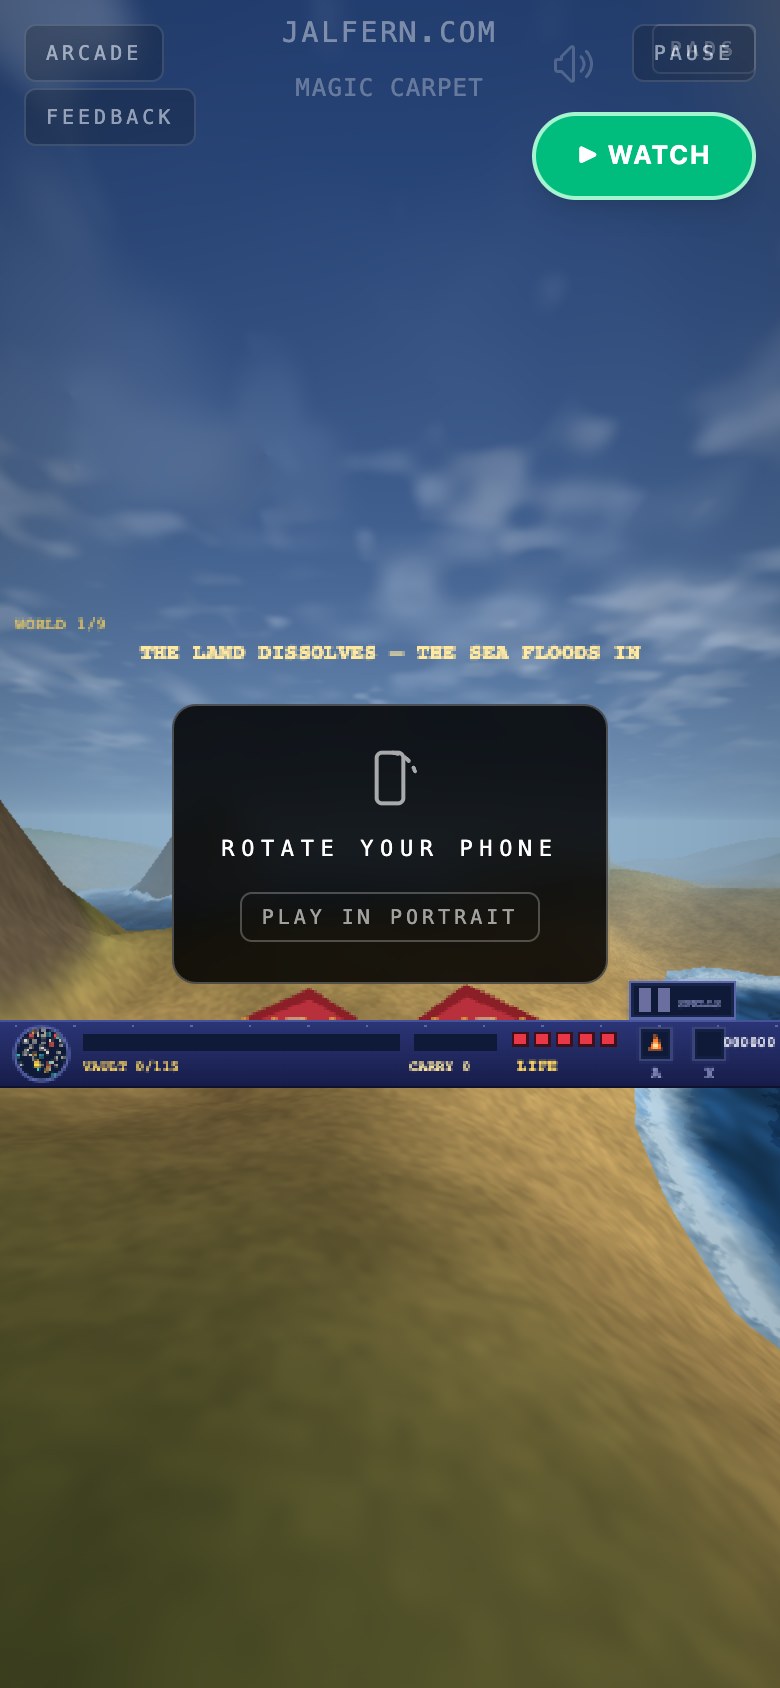
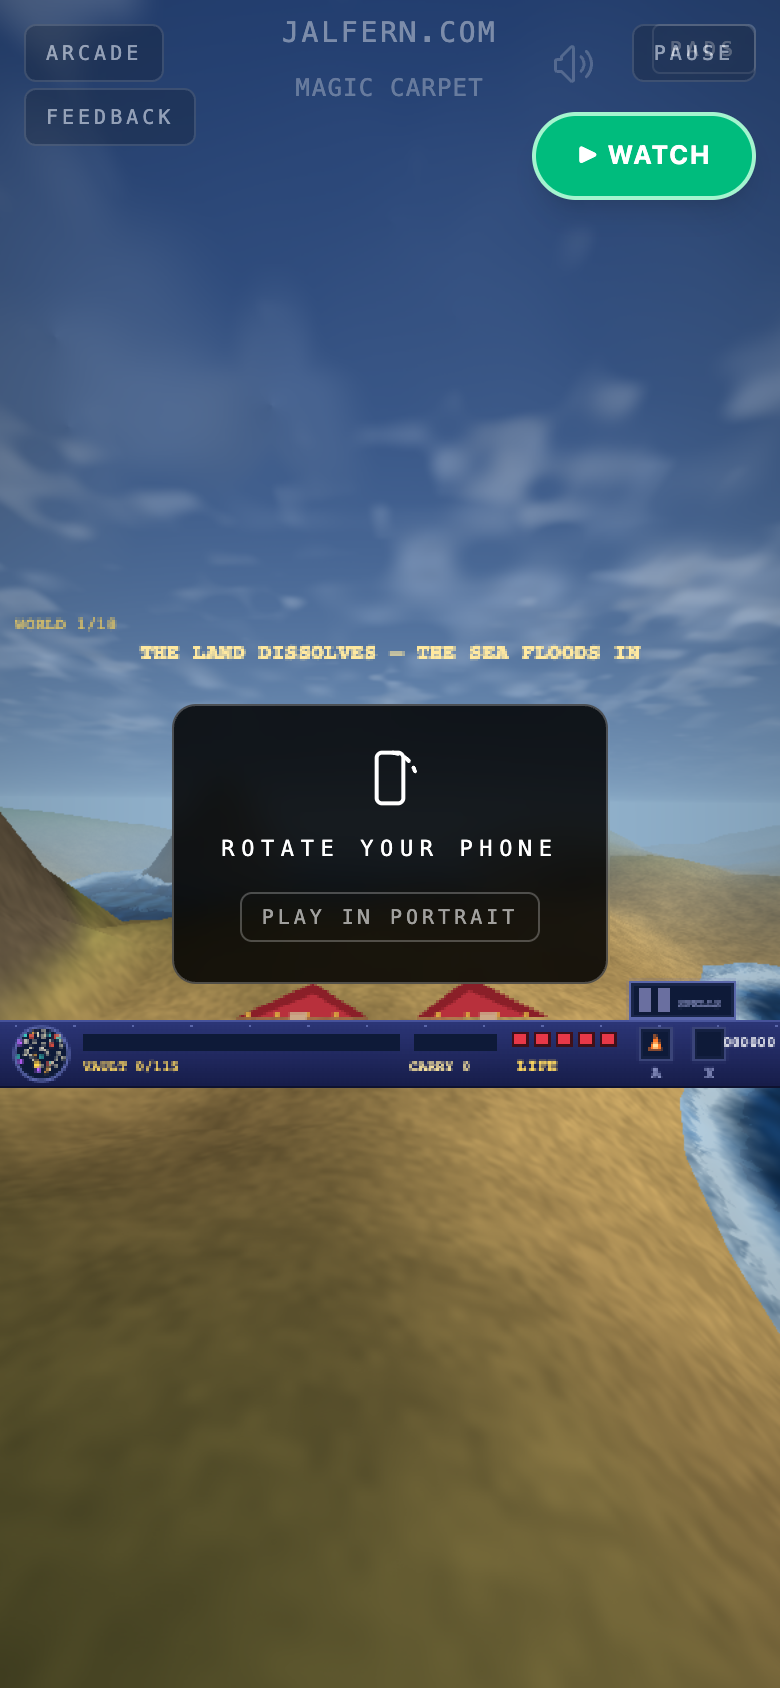
MAGIC CARPET: eighteen worlds — the campaign grows to six arcs of three (#1925 item 3)
LEVELS gains nine named worlds (EMERALD REACH -> THE ENDLESS SKY),
continuing the +15 vault ramp (quotas 280-400, hoards 230-350, wizHp
200-320, pearls 96-128) and the original's three-atmosphere cycle.
Quota policy holds: every new quota sits under the realistic pearl
yield and over the worst-case supply floor by >=1.5x. Worlds 1-9 are
untouched, the seed stream never shifts. WORLD SELECT, HUD and win
check follow LEVELS.length for free. carpetcheck's nine-world family
retargeted to eighteen; 60-seed sweep restores all 18 on all 60 seeds.
DEV PROGNOSIS tick cap now rides the campaign length.

diff --git a/src/config/games.js b/src/config/games.js
@@ -1062,8 +1062,8 @@ export const GAMES = [
         component: MagicCarpetGame,
         label: 'MAGIC CARPET',
         theme: 'dark',
-        description: "Bullfrog's 1994 DOS god-game, rebuilt whole in code — reworked (#1041) much closer to the original. You fly a magic carpet in first person over seeded, big rolling landscapes and sea — water to snow, drawn the original's way: per-column voxel terrain at 320x200 with checker dither and haze, sprite entities clipped by the hills, a gradient dusk sky. The mana loop is the original's: pearls trail after your carpet like a comet's tail, but they count only once flown HOME — hover over your castle and the vault fills; die over the wilds and the whole load is lost. Fill the vault to the quota and the world is restored; nine worlds await in three arcs of three atmospheres (Verdant Isles first, The Last Sky last) with rising quotas and nastier wizards, and your spells carry over. The 20-spell book is reduced to twelve signatures with the original's acquisition risk: fly through a grimoire and it may simply elude you. Left and right hands cast from your carried pouch — fireball homes like it means it, lightning chains, telekinesis lifts a wolf and hurls it back, SHATTER kills every creature at your look point and leaves the earth unmarked (no crater, no cinder), and INVISIBILITY veils the carpet for seven seconds: the wizard's bolts refuse to launch, arrows already in flight pass through you, and wolves and giants lose you entirely — while your own pearls, books and blasts work untouched. And spells reshape the land: blasts crater the terrain itself, low craters flood with the sea, RAISE pushes a hill up out of the plain — the counter-spell that drains a flooded crater and builds ridges for the carpet to ride — and villages catch fire and their scorch breeds wolves. A rival wizard orbits his tower hoarding 80+ mana per world and hexes you with bolts; giants sling rocks, wolves hunt — but they only reach a carpet flying low, so altitude is armor. The carpet banks into turns and rises over ridges on its own — it cannot crash; dying while the vault holds returns you to its gates, dying with an empty vault unravels the flight. The attract demo is the autopilot's own proven flight, and a Node harness (carpetcheck) audits delivery-banking, death-spills, terrain deformation, burning villages, mana conservation across worlds, and equilibrium itself.",
-        controls: ['← →: turn the carpet (it banks and slows in the turn, then accelerates out)', '▲ ▼: climb and descend — the carpet auto-rises over ridges, it cannot crash; wolves only reach you when you fly low', 'SHIFT (hold) / hold ▲: charge-glide — 1.6× speed with wider turns, costs no mana', 'SPACE / A: cast your LEFT hand · X / Z / B: cast your RIGHT hand — spells spend the mana you CARRY', 'Fly through floating grimoires to learn spells — some elude you; try again', '1–9, 0 and -, =: put a learned spell in your left hand · Q: cycle your right hand', 'B at your castle opens the SPELL BOOK — browse all twelve (unlearned read ???), ◀ ▶ or the digits page, L / R arm the hands; the world holds still while it is open. On touch: tap the glowing prompt at the castle', 'On touch: tap a hand slot to cycle that hand · tap the gold SPELLS tab to open the spellbook and tap a learned spell into your left hand', 'Pearls chase your carpet — gather a load, then fly it home: hover over the castle to fill the vault (the score); die and the pouch spills', 'Fireballs and lightning crater the land; RAISE (cost 25) lifts the ground back up — drained flood, ridged plain; burning villages breed wolves; craters sunk below sea level flood', 'SHATTER (cost 30): every creature within range of your look point dies where it stands — the land untouched', 'INVISIBILITY (cost 20): the wizard, wolves and giants cannot see you — but pearls and grimoires still can', 'CLONE (cost 35): every creature at your look point gains a twin across the mirror — doubled bounty, doubled danger; the wizard is never cloned', 'Kill the rival wizard and his hoard scatters into pearls · bank the quota in all nine worlds to win · on the title screen ◀ ▶ (or tap the gold arrows) pick which world you start in', WATCH_HELP + ' — the autopilot carpetcheck wins all nine worlds with, 60 seeds deep', 'V (or open with ?stereo=1): red/cyan anaglyph — the original\'s stereo-glasses mode; wear the glasses, the HUD stays flat', '?: pause and read the spellbook'],
+        description: "Bullfrog's 1994 DOS god-game, rebuilt whole in code — reworked (#1041) much closer to the original. You fly a magic carpet in first person over seeded, big rolling landscapes and sea — water to snow, drawn the original's way: per-column voxel terrain at 320x200 with checker dither and haze, sprite entities clipped by the hills, a gradient dusk sky. The mana loop is the original's: pearls trail after your carpet like a comet's tail, but they count only once flown HOME — hover over your castle and the vault fills; die over the wilds and the whole load is lost. Fill the vault to the quota and the world is restored; eighteen worlds await in six arcs of three atmospheres (Verdant Isles first, The Endless Sky last) with rising quotas and nastier wizards, and your spells carry over. The 20-spell book is reduced to twelve signatures with the original's acquisition risk: fly through a grimoire and it may simply elude you. Left and right hands cast from your carried pouch — fireball homes like it means it, lightning chains, telekinesis lifts a wolf and hurls it back, SHATTER kills every creature at your look point and leaves the earth unmarked (no crater, no cinder), and INVISIBILITY veils the carpet for seven seconds: the wizard's bolts refuse to launch, arrows already in flight pass through you, and wolves and giants lose you entirely — while your own pearls, books and blasts work untouched. And spells reshape the land: blasts crater the terrain itself, low craters flood with the sea, RAISE pushes a hill up out of the plain — the counter-spell that drains a flooded crater and builds ridges for the carpet to ride — and villages catch fire and their scorch breeds wolves. A rival wizard orbits his tower hoarding 80+ mana per world and hexes you with bolts; giants sling rocks, wolves hunt — but they only reach a carpet flying low, so altitude is armor. The carpet banks into turns and rises over ridges on its own — it cannot crash; dying while the vault holds returns you to its gates, dying with an empty vault unravels the flight. The attract demo is the autopilot's own proven flight, and a Node harness (carpetcheck) audits delivery-banking, death-spills, terrain deformation, burning villages, mana conservation across worlds, and equilibrium itself.",
+        controls: ['← →: turn the carpet (it banks and slows in the turn, then accelerates out)', '▲ ▼: climb and descend — the carpet auto-rises over ridges, it cannot crash; wolves only reach you when you fly low', 'SHIFT (hold) / hold ▲: charge-glide — 1.6× speed with wider turns, costs no mana', 'SPACE / A: cast your LEFT hand · X / Z / B: cast your RIGHT hand — spells spend the mana you CARRY', 'Fly through floating grimoires to learn spells — some elude you; try again', '1–9, 0 and -, =: put a learned spell in your left hand · Q: cycle your right hand', 'B at your castle opens the SPELL BOOK — browse all twelve (unlearned read ???), ◀ ▶ or the digits page, L / R arm the hands; the world holds still while it is open. On touch: tap the glowing prompt at the castle', 'On touch: tap a hand slot to cycle that hand · tap the gold SPELLS tab to open the spellbook and tap a learned spell into your left hand', 'Pearls chase your carpet — gather a load, then fly it home: hover over the castle to fill the vault (the score); die and the pouch spills', 'Fireballs and lightning crater the land; RAISE (cost 25) lifts the ground back up — drained flood, ridged plain; burning villages breed wolves; craters sunk below sea level flood', 'SHATTER (cost 30): every creature within range of your look point dies where it stands — the land untouched', 'INVISIBILITY (cost 20): the wizard, wolves and giants cannot see you — but pearls and grimoires still can', 'CLONE (cost 35): every creature at your look point gains a twin across the mirror — doubled bounty, doubled danger; the wizard is never cloned', 'Kill the rival wizard and his hoard scatters into pearls · bank the quota in all eighteen worlds to win · on the title screen ◀ ▶ (or tap the gold arrows) pick which world you start in', WATCH_HELP + ' — the autopilot carpetcheck wins all eighteen worlds with, 60 seeds deep', 'V (or open with ?stereo=1): red/cyan anaglyph — the original\'s stereo-glasses mode; wear the glasses, the HUD stays flat', '?: pause and read the spellbook'],
     },
     {
         path: '/garden-guard',

diff --git a/src/games/MagicCarpet/sim.js b/src/games/MagicCarpet/sim.js
@@ -18,8 +18,10 @@ export const CFG = {
 
 // #1740: the original ran a long campaign of 45 levels; the atmospheres repeat
 // every third world (the renderer cycles its three PALs the same way), so the
-// nine named worlds below are three arcs of three — each arc stricter than the
-// last. Quota policy (learned in the sweep: seeds 41/54 stalled when world 9's
+// named worlds below are six arcs of three — each arc stricter than the last
+// (#1925 item 3 grew the campaign from nine to eighteen: arcs four to six keep
+// the same three-atmosphere cycle and the +15 vault ramp).
+// Quota policy (learned in the sweep: seeds 41/54 stalled when world 9's
 // demand outran the pearl yield): every quota stays well under what the pearls
 // alone realistically pay (~pearls x 3.5 against the 2..6 roll), because the
 // wizard hoard is NOT reliably cashable — casting needs prepaid mana, and an
@@ -34,6 +36,18 @@ export const LEVELS = [
     { name: 'LIVING MOOR', quota: 235, hoard: 185, wizHp: 155, pearls: 84 },
     { name: 'LAST EMBER', quota: 250, hoard: 200, wizHp: 170, pearls: 88 },
     { name: 'THE LAST SKY', quota: 265, hoard: 215, wizHp: 185, pearls: 92 },
+    // #1925 item 3 — the second campaign. Arc four (green/ember/frost as above):
+    { name: 'EMERALD REACH', quota: 280, hoard: 230, wizHp: 200, pearls: 96 },
+    { name: 'CINDER VALE', quota: 295, hoard: 245, wizHp: 215, pearls: 100 },
+    { name: 'RIMEFALL', quota: 310, hoard: 260, wizHp: 230, pearls: 104 },
+    // arc five — stricter still:
+    { name: 'THORNWOOD', quota: 325, hoard: 275, wizHp: 245, pearls: 108 },
+    { name: 'ASHEN HOUR', quota: 340, hoard: 290, wizHp: 260, pearls: 112 },
+    { name: 'WHITE HOLLOW', quota: 355, hoard: 305, wizHp: 275, pearls: 116 },
+    // arc six — the deep country, the original's long middle:
+    { name: 'SABLE WILD', quota: 370, hoard: 320, wizHp: 290, pearls: 120 },
+    { name: 'LAST LIGHT', quota: 385, hoard: 335, wizHp: 305, pearls: 124 },
+    { name: 'THE ENDLESS SKY', quota: 400, hoard: 350, wizHp: 320, pearls: 128 },
 ]
 export const QUOTA = LEVELS[LEVELS.length - 1].quota
 
@@ -41,7 +55,7 @@ export const QUOTA = LEVELS[LEVELS.length - 1].quota
 // Pure selector plumbing so the whole pick path is Node-provable, like hudTap.
 // Thumb-sized chevron zones sit at the bottom corners of the 320x200 title
 // surface (48x48 HUD px = >=44 CSS px on a 390px phone); the cursor cycles
-// through the nine worlds and any other start key/tap launches from it.
+// through the eighteen worlds and any other start key/tap launches from it.
 export const SEL = { y: 112, h: 48, zw: 48 }
 export function selectTap(x, y) {
     if (y < SEL.y || y > SEL.y + SEL.h) return null

diff --git a/src/games/MagicCarpet/index.jsx b/src/games/MagicCarpet/index.jsx
@@ -1460,8 +1460,10 @@ const MagicCarpetGame = () => {
                             if (gs.end) return `already ${gs.end}`
                             const clone = JSON.parse(JSON.stringify(gs))
                             clone.events = []
+                            // #1925: the cap rides the campaign — a full 18-world win runs
+                            // ~12k ticks/world, so a fixed 60k would call world 1 unwinnable.
                             let t = 0
-                            while (!clone.end && t < 60000) { step(clone, autopilot(clone)); t++ }
+                            while (!clone.end && t < LEVELS.length * 12000) { step(clone, autopilot(clone)); t++ }
                             return clone.end === 'win'
                                 ? `WINNABLE from here: vault quota banked at tick ${clone.tick} (${clone.score} pts)`
                                 : `NOT winnable by the autopilot from here: end=${clone.end || 'timeout'} vault ${Math.floor(clone.bank)}/${clone.quota}`
@@ -1543,7 +1545,7 @@ const MagicCarpetGame = () => {
             {screen === 'attract' && (
                 <div className="absolute inset-x-0 top-4 text-center pointer-events-none">
                     <h1 className="text-4xl font-black" style={{ color: '#e8c860', textShadow: '0 0 18px #6a4ad0, 3px 3px 0 #3a1a5a' }}>MAGIC CARPET</h1>
-                    <p className="text-purple-200/90 font-mono mt-1 text-sm">fly . gather mana . fly it home . restore nine worlds</p>
+                    <p className="text-purple-200/90 font-mono mt-1 text-sm">fly . gather mana . fly it home . restore eighteen worlds</p>
                     <p className="text-white font-mono font-bold mt-2 animate-pulse">TAP / PRESS ANY KEY TO START</p>
                     <AttractMessage
                         className="text-purple-100/80 font-mono text-[11px] mt-2 px-8 leading-4"
@@ -1556,7 +1558,7 @@ const MagicCarpetGame = () => {
                             'DIE AND THE LOAD IS LOST',
                             'FIREBALLS CRATER THE LAND · BURNING VILLAGES BREED WOLVES',
                             'CAST INVISIBILITY AND WIZARD AND WOLVES LOOK RIGHT THROUGH YOU',
-                            'NINE WORLDS · THREE ARCS OF THREE ATMOSPHERES · EACH GUARDED',
+                            'EIGHTEEN WORLDS · SIX ARCS OF THREE ATMOSPHERES · EACH GUARDED',
                         ]}
                     />
                     <span className="block mt-2 text-purple-200/70 font-mono font-bold tracking-wider">{WATCH_ATTRACT_HINT}</span>

diff --git a/src/games/MagicCarpet/renderer.js b/src/games/MagicCarpet/renderer.js
@@ -1316,7 +1316,7 @@ void main(){
     }
     let gs0 = null
 
-    // #1740: nine worlds over three atmospheres — cycle like the original's
+    // #1740/#1925: eighteen worlds over three atmospheres — cycle like the original's
     // repeating campaign instead of clamping the ninth world to Frostbound.
     const applyPalette = (level) => {
         const p = PAL[level % PAL.length]

diff --git a/src/games/MagicCarpet/README.md b/src/games/MagicCarpet/README.md
@@ -10,7 +10,7 @@ view with a MODERN GPU pass (`renderer.js`, WebGL2) while the HUD stays a crisp
 
 - `sim.js` — the pure deterministic machine: seeded heightmap (value-noise fbm +
   three cones over a 512u wrapping map) that spells DEFORM (craters, flooding),
-  nine worlds (`LEVELS`: quota, wizard hoard/HP, pearl count), carpet, monsters,
+  eighteen worlds (`LEVELS`: quota, wizard hoard/HP, pearl count), carpet, monsters,
   wizard, spells, vault economy, `autopilot()` (drives the attract demo AND the
   harness), `stateHash()`. No browser APIs in here — the harness imports it directly.
 - `art.js` — rect-composed pixel sprites (wizard, tower, castle stages, giant,
@@ -46,19 +46,19 @@ view with a MODERN GPU pass (`renderer.js`, WebGL2) while the HUD stays a crisp
 - Death spills the pouch (`spilled`), the vault endures: with vault > 0 you
   respawn at the gates (high, shielded, 240-tick spawn-invulnerable); with an
   empty vault the flight ends.
-- Nine worlds (`LEVELS`, quotas 115→265 in nine strict steps, #1740): banking the
-  quota regenerates the whole world (terrain, pearls, huts, village, monsters, fresh wizard
-  hoard); spells learned and the carried pouch transfer; clearing world 9 wins.
+- Eighteen worlds (`LEVELS`, quotas 115→400 in eighteen strict steps, #1740 grown
+  to eighteen by #1925 item 3): banking the quota regenerates the whole world (terrain, pearls, huts, village, monsters, fresh wizard
+  hoard); spells learned and the carried pouch transfer; clearing world 18 wins.
 - WORLD economy (#1740): every quota stays under what the pearls alone realistically
   pay (~pearls × 3.5 against the 2..6 roll). The wizard hoard is BONUS, never a
   dependency: at 0 mana on an exhausted land a hoard is not reliably cashable
   (casting needs prepaid mana), and that is exactly where a hoard-dependent quota
   soft-locks — seeds 41/54 proved it during the first 9-world sweep.
 - WORLD SELECT (#1740): on the title, ◀ ▶ (arrows or the pad) cycle a cursor through
-  the nine worlds and any other key/tap launches AT it; thumb-sized chevron zones at
+  the eighteen worlds and any other key/tap launches AT it; thumb-sized chevron zones at
   the bottom corners of the HUD surface route through pure `selectTap`/`cursorStep`
   in `sim.js` (Node-provable, ≥44 CSS px at 390px phone). The renderer CYCLES its
-  three atmospheres over the nine worlds (`PAL[level % PAL.length]`) — the original
+  three atmospheres over the eighteen worlds (`PAL[level % PAL.length]`) — the original
   reused its seasons across 45 levels the same way.
 - Terrain reshape: every blast punches a crater into the heightmap (`crater()`,
   quadratic falloff; fireball r14d10, lightning r10d8, tower fall r18d11).
@@ -335,8 +335,9 @@ see item 5).
   Invisibility shipped #1610, volcano #1612 item 5, shatter + raise #1639,
   dissolve #1668, **clone #1680** — the roster tail of #1612 item 5
   (clone/dissolve/shatter/volcano) is now fully shipped.
-- **PARTIAL by #1740:** the title carries a WORLD SELECT (◀ ▶ / chevron taps, nine
-  startable worlds) — but the campaign is nine worlds, not the original's 45;
+- **PARTIAL by #1740, grown by #1925 item 3:** the title carries a WORLD SELECT
+  (◀ ▶ / chevron taps, eighteen startable worlds) — the campaign runs eighteen
+  worlds (six arcs of three atmospheres), not the original's 45;
   scoring is banked mana + kills + clears + time bonus.
 - **Castle-spell menu closed by #1764 item 1:** the original's spell selection was
   a browseable book, and the book lives at home. `B` (or a tap on the glowing
